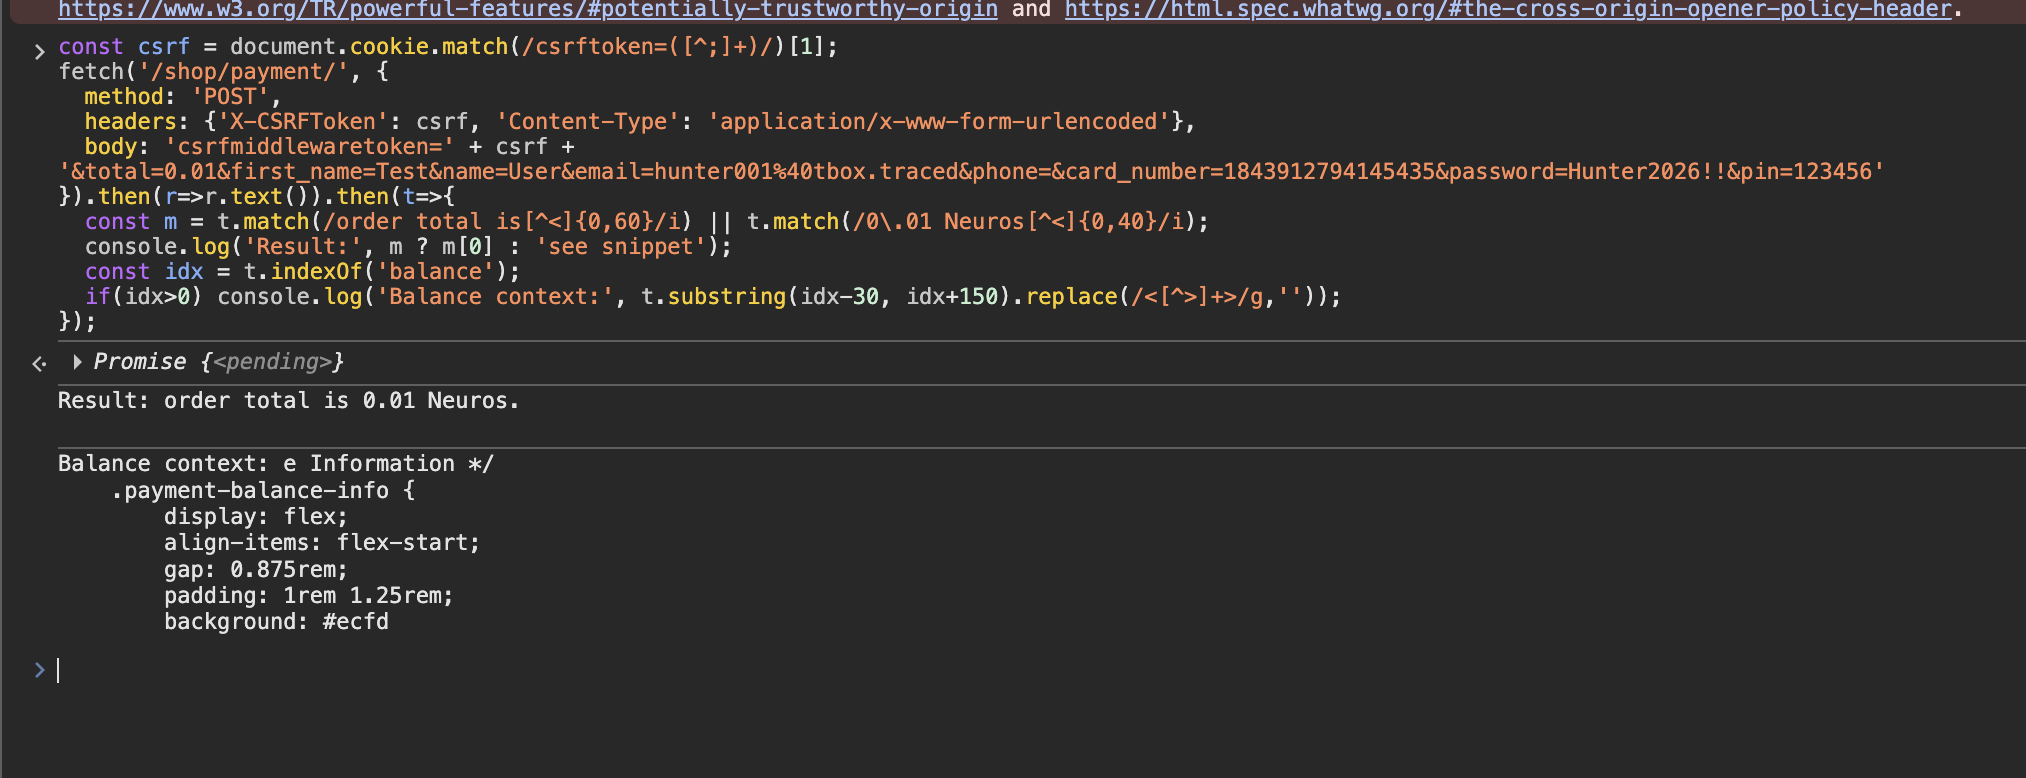
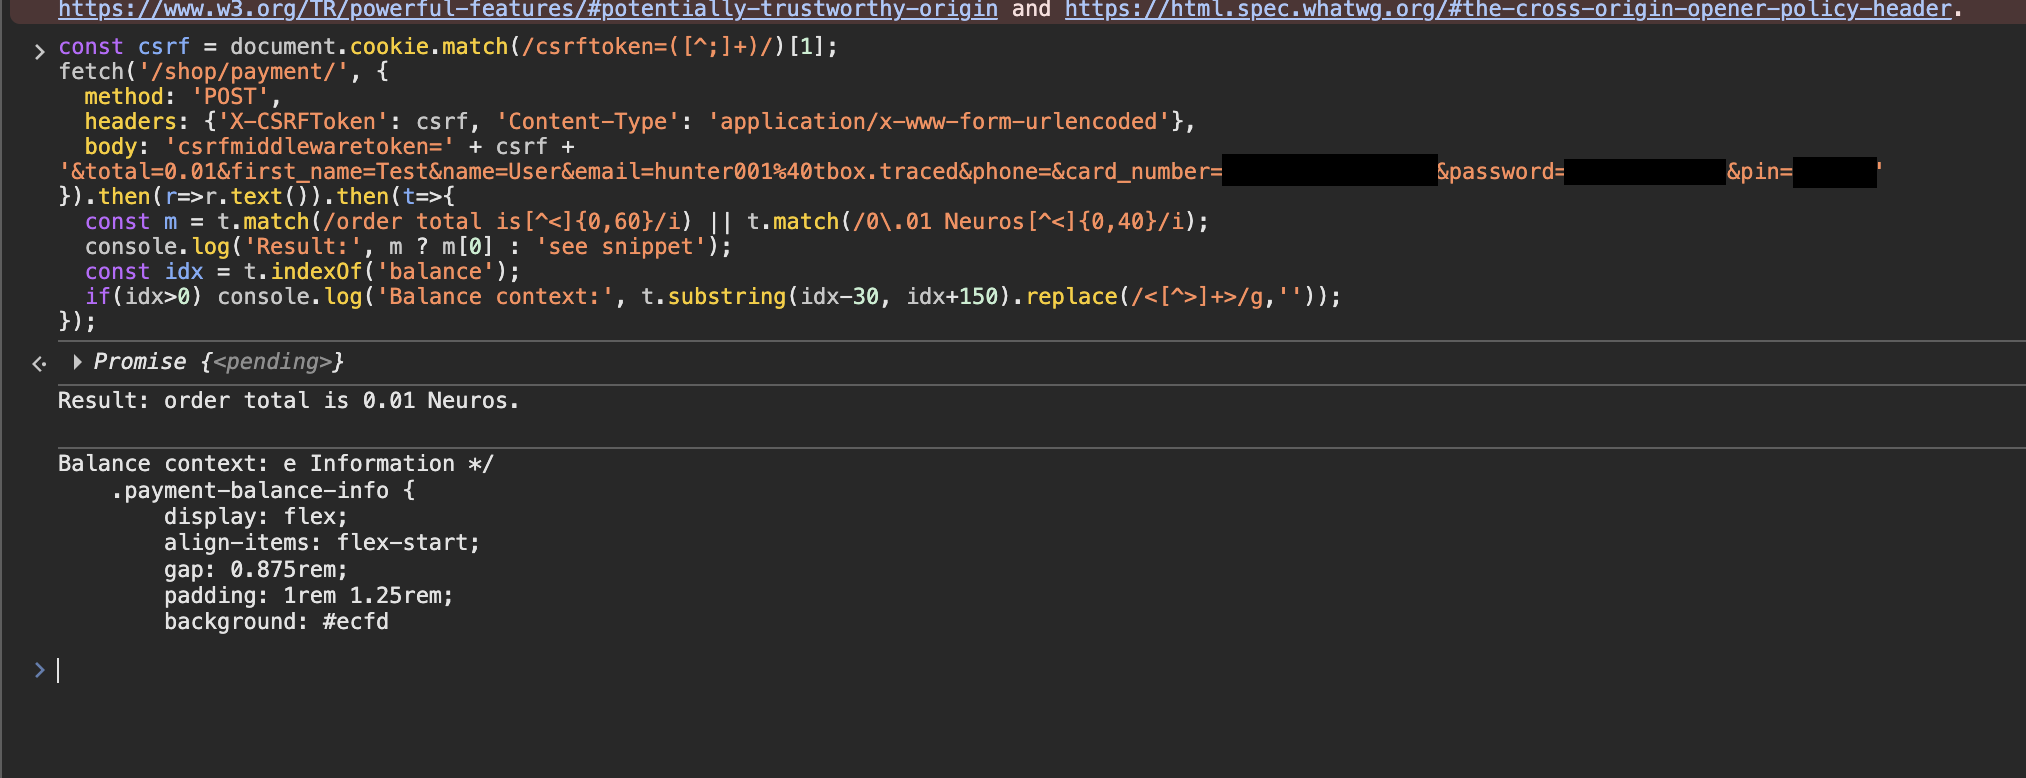
docs: refine price tampering remediation and redact sensitive data

Changed region(s): [[0.7463, 0.1851, 0.9329, 0.2468], [0.5908, 0.1851, 0.7152, 0.2468]]

diff --git a/WOCShAck#5/WriteUps/Price_Tampering/Price_Tampering.md b/WOCShAck#5/WriteUps/Price_Tampering/Price_Tampering.md
@@ -45,7 +45,9 @@ Overall severity: **High (integrity)** — affects every authenticated user and 
 
 1. **Recompute the total server-side** from the cart's database rows at payment time; never trust a client-supplied `total`.
 2. **Reject any request** whose submitted total ≠ the server-computed total.
-3. **Validate amount bounds** (`> 0`) before entering the payment pipeline.
+3. **Validate amount bounds and monetary precision** against server-side pricing and discount rules before entering the payment pipeline.
+4. **Ensure payment consistency** between the server-computed cart total, the recorded order amount and the actual banking charges.
+5. **Add regression tests** covering server-side price calculation, amount validation and consistency between order records and banking transactions.
 
 # Author
 CHILL HUNT
